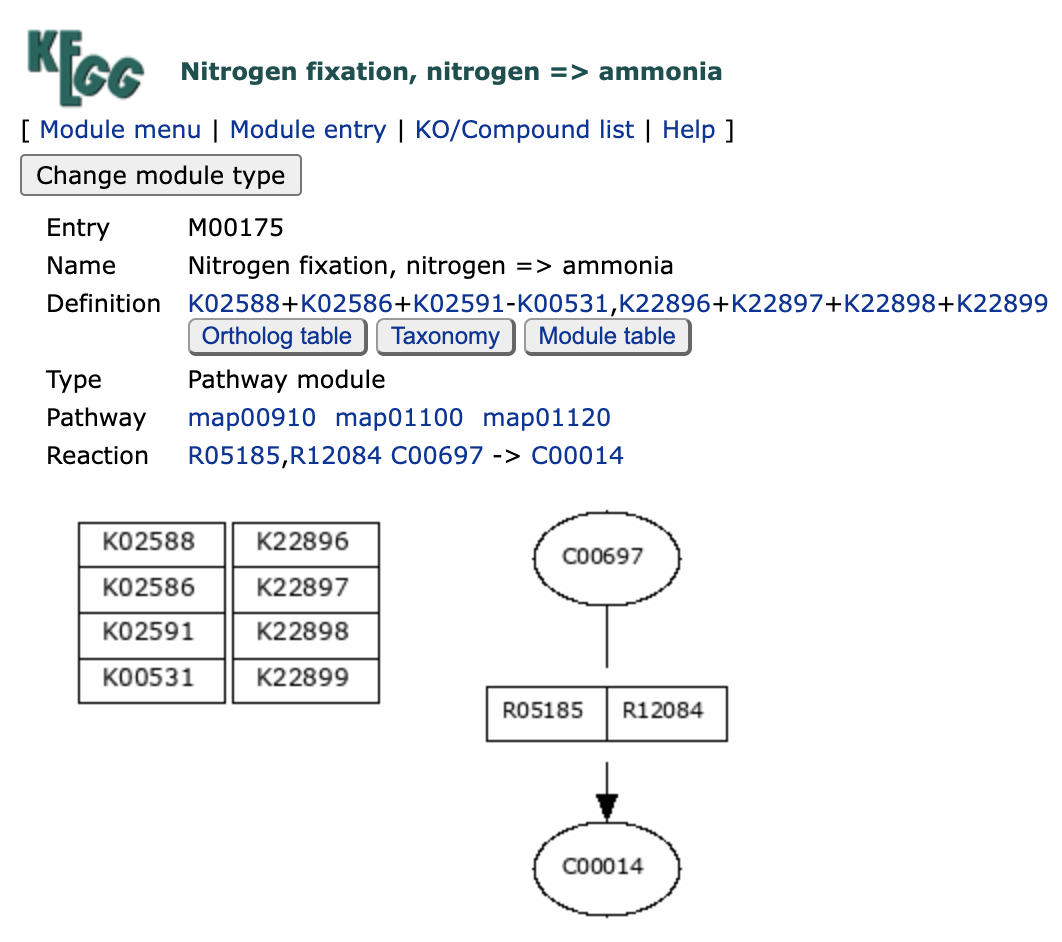
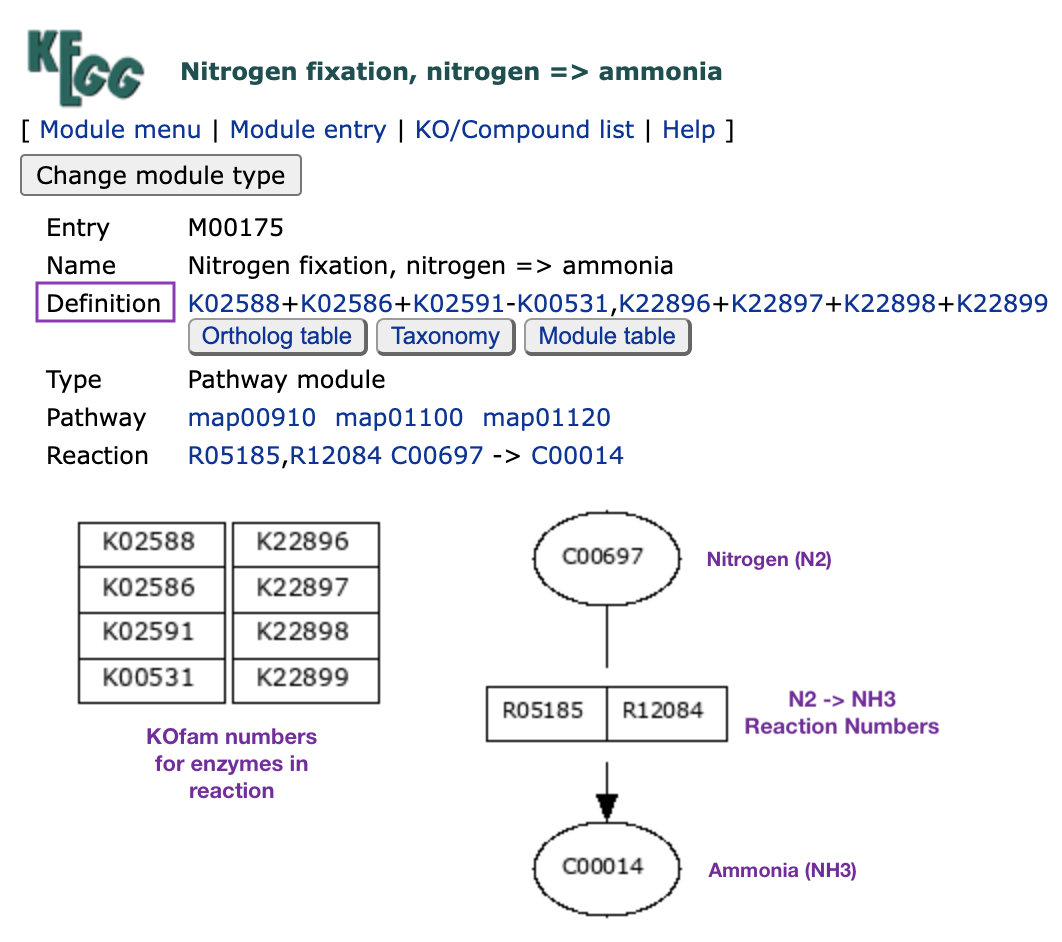
emily suggestion - clarify module image

diff --git a/_posts/miscellaneous/2021-10-20-targeted-binning-nif-mag.md b/_posts/miscellaneous/2021-10-20-targeted-binning-nif-mag.md
@@ -45,11 +45,11 @@ Nitrogen fixation is the process of converting gaseous nitrogen (N<sub>2</sub>) 
 
 ### The nitrogen fixation pathway - KEGG vs reality
 
-The KEGG module for nitrogen fixation is [M00175](https://www.genome.jp/module/M00175), and it looks like this:
+The KEGG module for nitrogen fixation is [M00175](https://www.genome.jp/module/M00175), and it looks like this (image has been modified with labels):
 
 {% include IMAGE path="/images/miscellaneous/targeted-binning-nif-mag/M00175.png" width="50" %}
 
-You need a nitrogenase enzyme complex to convert nitrogen gas to ammonia, and there are currently only two major versions of this complex: the "molybdenum-dependent nitrogenase" protein complex encoded by genes _nifH_ (K02588), _nifD_ (K02586), and _nifK_ (K02591) of the _nif_ operon; or the "vanadium-dependent nitrogenase" protein complex encoded by genes _vnfD_ (K22896), _vnfK_ (K22897), _vnfG_ (K22898), and _vnfH_ (K22899), of the (you guessed it) _vnf_ operon. The latter complex has been isolated from soil bacteria and is known to be an alternative nitrogenase that is expressed when molybdenum is not available ([Lee 2009](https://doi.org/10.1073/pnas.0904408106), [Bishop 1980](https://doi.org/10.1073/pnas.77.12.7342)). We're just going to ignore it, because I have yet to see it in any ocean samples.
+The part of the module that you'll want to focus on here is the "Definition" line containing the KO numbers for each enzyme required in the pathway (these KOs are also arranged in the rectangular boxes in the bottom-left). You need a nitrogenase enzyme complex to convert nitrogen gas to ammonia, and there are currently only two major versions of this complex: the "molybdenum-dependent nitrogenase" protein complex encoded by genes _nifH_ (K02588), _nifD_ (K02586), and _nifK_ (K02591) of the _nif_ operon; or the "vanadium-dependent nitrogenase" protein complex encoded by genes _vnfD_ (K22896), _vnfK_ (K22897), _vnfG_ (K22898), and _vnfH_ (K22899), of the (you guessed it) _vnf_ operon. The latter complex has been isolated from soil bacteria and is known to be an alternative nitrogenase that is expressed when molybdenum is not available ([Lee 2009](https://doi.org/10.1073/pnas.0904408106), [Bishop 1980](https://doi.org/10.1073/pnas.77.12.7342)). We're just going to ignore it, because I have yet to see it in any ocean samples.
 
 {:.notice}
 You might have noticed that I left [K00531](https://www.genome.jp/dbget-bin/www_bget?ko:K00531) out of the above discussion. That is because this KO is not part of the _nif_ operon - rather, it is the gene _anfG_, which is part of the alternative nitrogen fixation operon _anf_. _anf_ encodes an alternate nitrogenase enzyme made up of the components _anfHDKG_, but _anfHDK_ are very similar to the _nifHDK_ components ([Joerger 2021](https://journals.asm.org/doi/10.1128/jb.171.2.1075-1086.1989)). My best guess as to why _anfHDK_ don't have their own KOfam profiles is that the _nifHDK_ KOfams can match to these genes. But since _anfG_ is an additional component that is not required for the _nif_ operon, it has its own KO and is labeled as non-essential to the enzyme complex in this module (that is what the minus sign in front of K00531 means). This is a very long-winded way of saying that we don't have to worry about looking for K00531 in our data.
